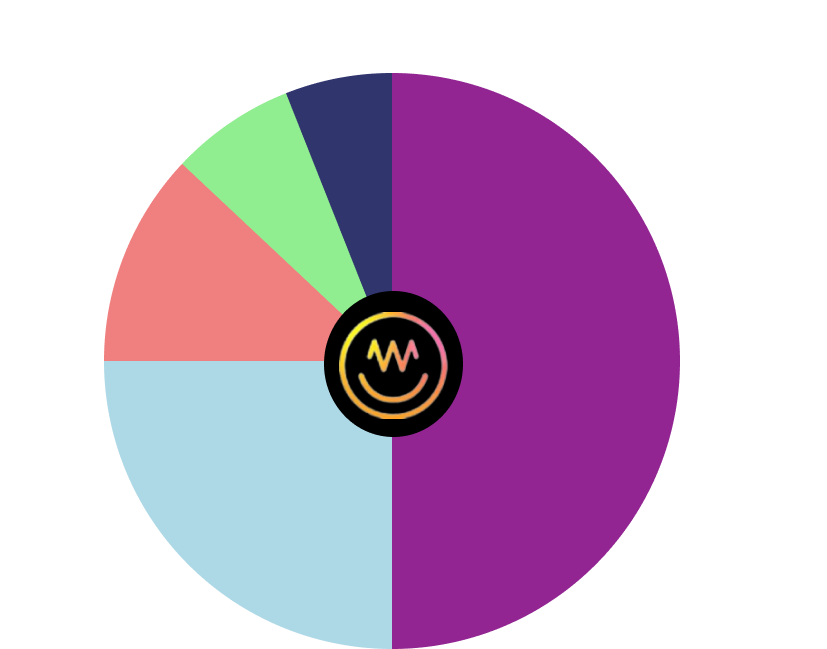
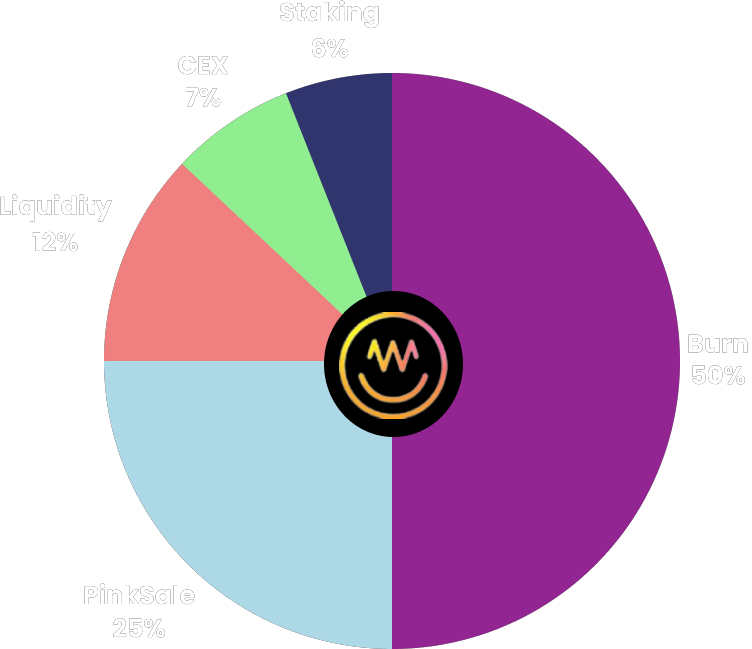
new

diff --git a/src/components/Tokonomics.jsx b/src/components/Tokonomics.jsx
@@ -10,7 +10,7 @@ function Tokonomics() {
           </h1>
         </div>
 
-        <div className=" flex justify-center items-center gap-5">
+        <div className=" flex justify-center items-center gap-5 text-center">
           <div>
             <img
               src="images/token.png"
@@ -18,29 +18,34 @@ function Tokonomics() {
               className="h-auto sm:h-[500px]"
             />
 
-<div className="flex justify-center gap-7 items-center py-4 mt-8">
-             
+            <div className="flex justify-center gap-7 items-center pt-8 mt-8 font-bitsu text-base sm:text-3xl">
+              <h2> 50% Burn</h2>
 
-             
-                <h2> 50% Burn</h2>
+              <h2> 25% PinkSale</h2>
 
-                
-                <h2> 50% Burn</h2>
-                
-                <h2> 50% Burn</h2>
-                
-                <h2> 50% Burn</h2>
-                
-                <h2> 50% Burn</h2>
-                
-                <h2> 50% Burn</h2>
+              <h2> 12% Liquidty</h2>
+
+          
+
              
             </div>
-          </div>
 
-          <div>
+            <div className="flex justify-center gap-7 items-center py-1 mt-8 font-bitsu text-base sm:text-3xl">
+              <h2> 7% CEX</h2>
+
+              <h2> 6% Staking</h2>
+
+             
+
+          
+
+             
+            </div>
+
             
           </div>
+
+          <div></div>
         </div>
       </div>
     </section>
